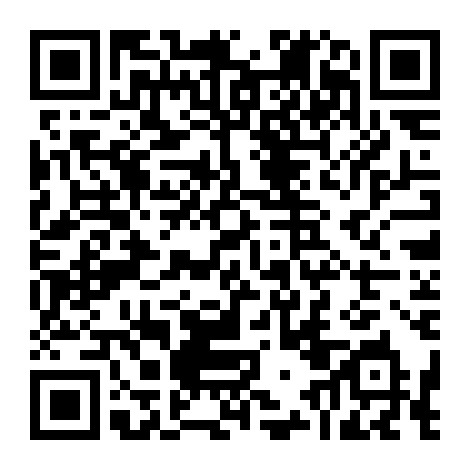
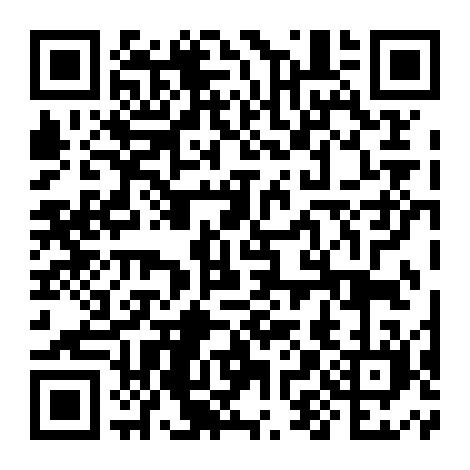
force refresh qr 0814

diff --git a/index.html b/index.html
@@ -3,11 +3,12 @@
 <head><meta name="viewport" content="width=device-width"><title>KidStart Preview</title>
 <meta http-equiv="Cache-Control" content="no-cache, no-store, must-revalidate">
 <meta http-equiv="Pragma" content="no-cache">
+<meta http-equiv="Expires" content="0">
 </head>
 <body style="text-align:center;padding:20px;font-family:system-ui">
 <h3>🇬🇧 KidStart English Preview</h3>
-<img src="kidstart.jpg" style="max-width:300px"><br><br>
+<img src="kidstart.jpg?t=20260323081400" style="max-width:300px"><br><br>
 <small>⏰ 二维码有效期约 25 分钟，过期找乔巴刷新</small><br>
-<small>Updated: 08:02</small>
+<small>Updated: 08:14</small>
 </body>
 </html>
